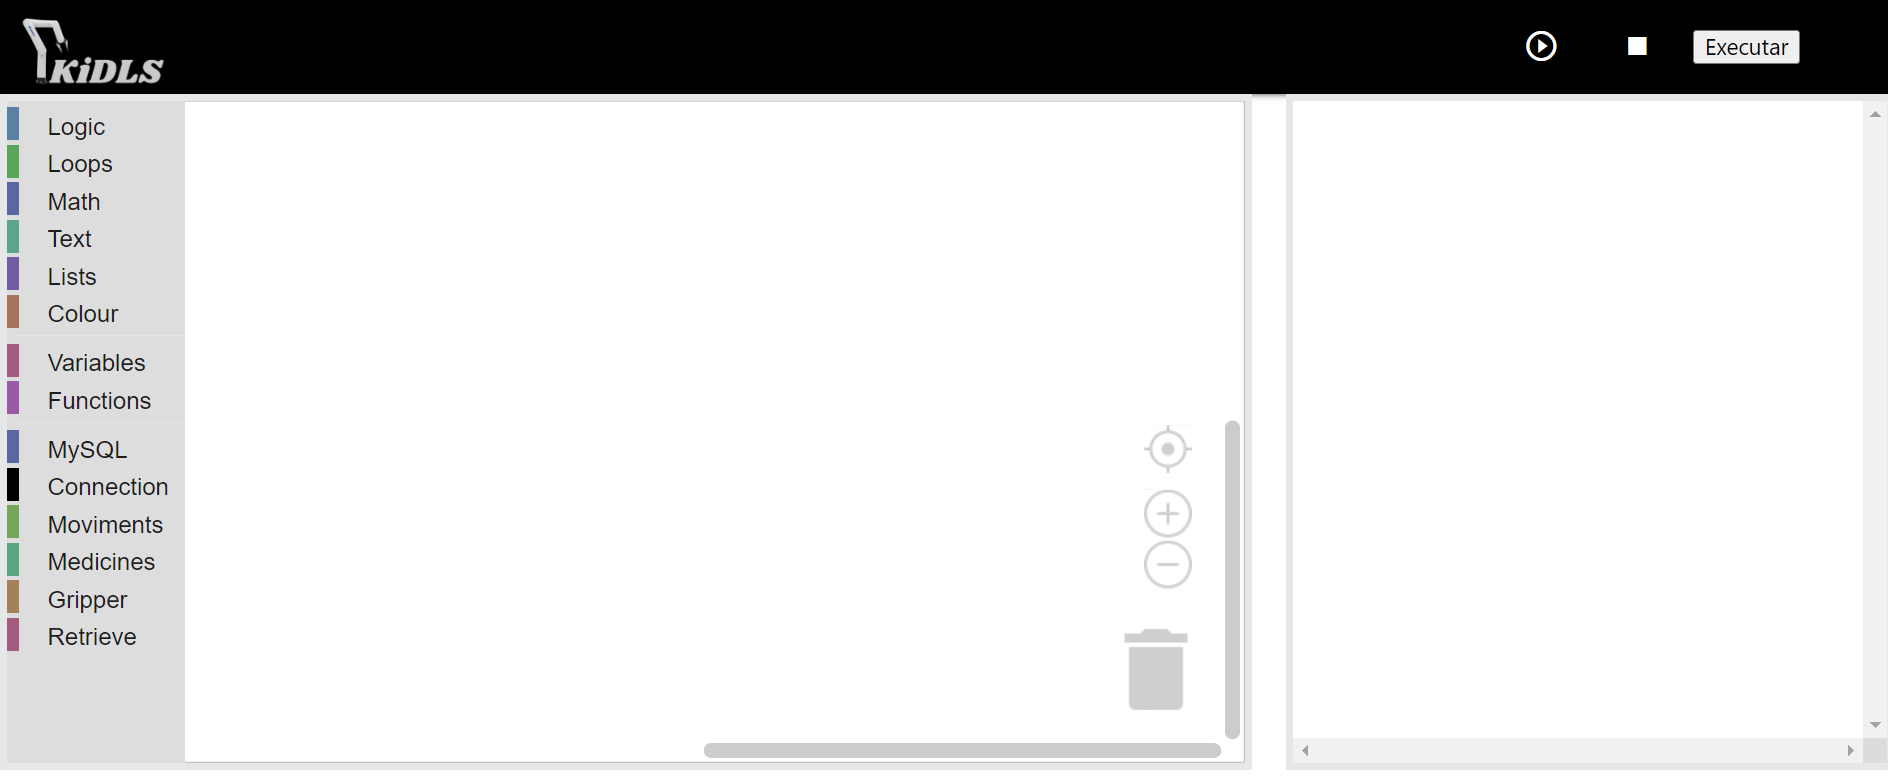
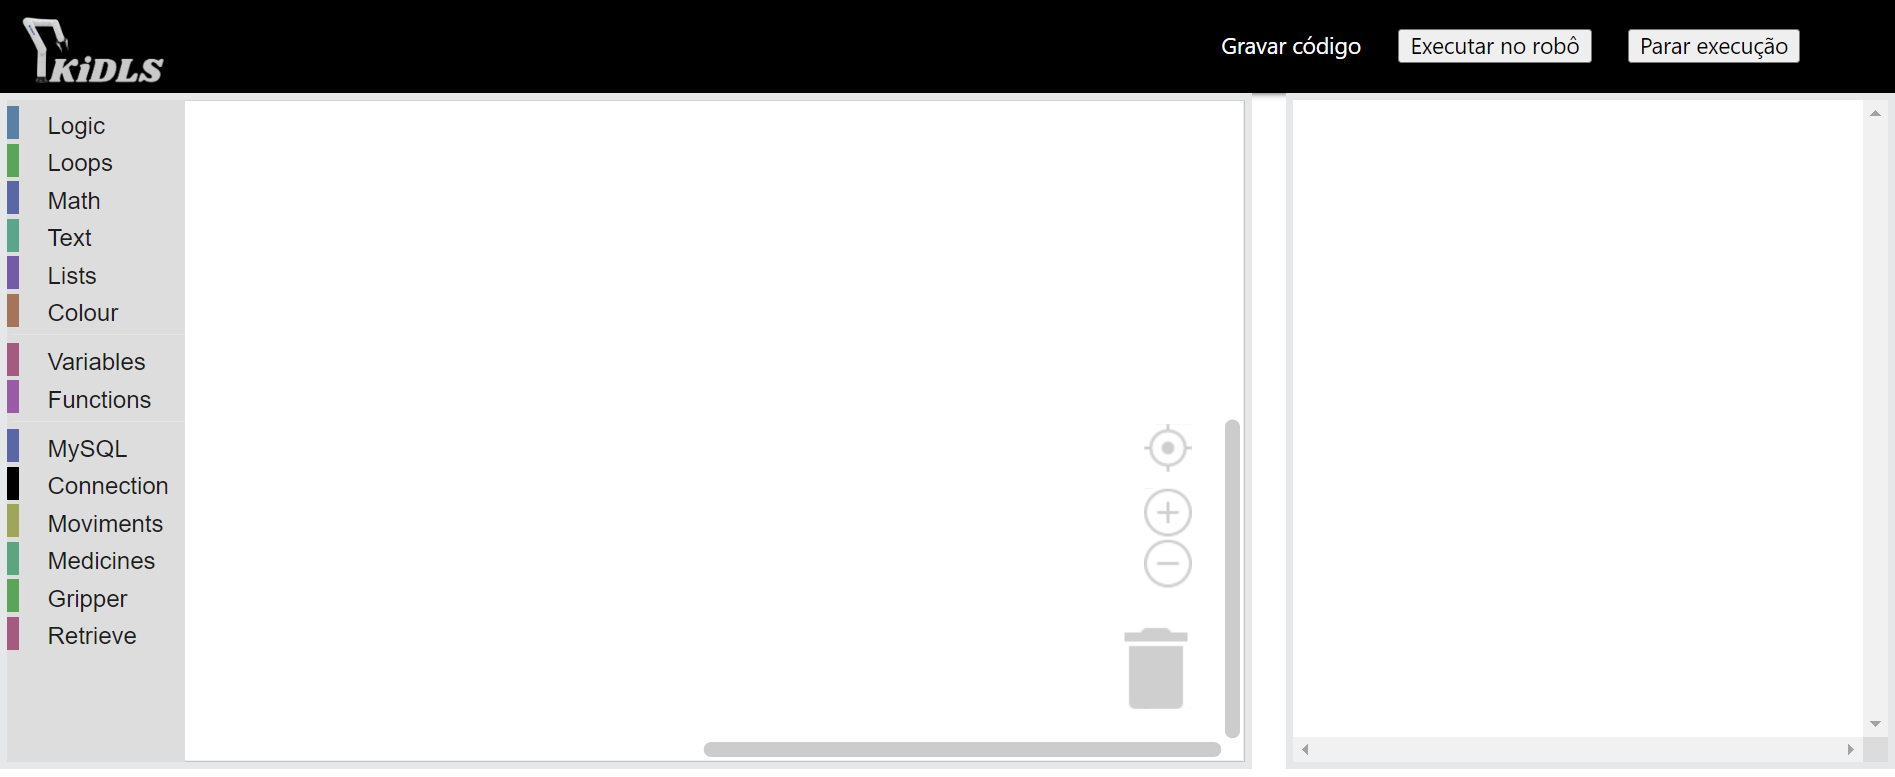
Update in the function index.html

diff --git a/templates/index.html b/templates/index.html
@@ -58,9 +58,12 @@
               <!-- <img alt="logo" src="static/img/KiDLS__1_-removebg-preview.png" style="width: 100px; height: auto; margin-top: 10px;"> -->
           </a>
           <ul class="right hide-on-med-and-down">      
-            <button onclick="executarScriptPython()">Executar</button>
-            <li class="nav-icons"><a href="#" onclick="runCode()"><i class="material-icons">play_circle_outline</i></a></li>           
-            <li class="nav-icons"><a href="#"><i class="material-icons">stop </i></a></li>          
+            <li class="nav-icons"><a href="#" onclick="runCode()">Gravar código</a></li>
+            <button onclick="executarScriptPython()">Executar no robô</button>            
+            <li class="nav-icons"><a href="#" onclick="pararExecucao()">Parar</a></li>
+
+            <!-- <li class="nav-icons"><a href="#" onclick="runCode()"><i class="material-icons">play_circle_outline</i></a></li>            -->
+            <!-- <li class="nav-icons"><a href="#"><i class="material-icons">stop </i></a></li>           -->
             
           </ul>
       </div>
@@ -760,6 +763,8 @@
             });
         }
 
+      
+
       var mostrar = "nada aqui";
       var toolbox = document.getElementById('toolbox');
 
@@ -851,11 +856,11 @@ workspace.addChangeListener(function(event) {
     </script>
     <!--JavaScript at end of body for optimized loading-->
     <script type="text/javascript" src="static/js/materialize.min.js"></script>
-    <!-- <script type="text/javascript" src="static/js/bootstrap.min.js"></script> -->
-    <!--<script type="text/javascript" src="js/code.js"></script>-->
-    <!-- <script type="text/javascript" src="static/js/FileSaver.js"></script> -->
-    <!-- <script type="text/javascript" src="static/js/prettify.js"></script> -->
-    <!-- <script type="text/javascript" src="static/js/jquery.mousewheel.min.js"></script> -->
+    <script type="text/javascript" src="static/js/bootstrap.min.js"></script> 
+    <script type="text/javascript" src="js/code.js"></script>
+    <script type="text/javascript" src="static/js/FileSaver.js"></script>
+    <script type="text/javascript" src="static/js/prettify.js"></script>
+    <script type="text/javascript" src="static/js/jquery.mousewheel.min.js"></script>
 </body>
 
 </html>

diff --git a/static/src/generated_code.py b/static/src/generated_code.py
@@ -2,19 +2,4 @@ from robot import Robot
 
 obj = Robot()
 
-obj.connect('192.168.2.10')
-if True:
-  obj.move_to_home()
-for count in range(2):
-  obj.move_cartesiann([0, 0, 0, 0, 0, 0])
-  obj.close_tool()
-  obj.move_cartesiann([0, 0, 0, 0, 0, 0])
-  obj.move_cartesiann([0, 0, 0, 0, 0, 0])
-  obj.open_tool(0.60)
-obj.move_cartesiann([0, 0, 0, 0, 0, 0])
-obj.close_tool()
-obj.move_cartesiann([0, 0, 0, 0, 0, 0])
-obj.move_cartesiann([0, 0, 0, 0, 0, 0])
-obj.open_tool(0.60)
 obj.move_to_home()
-obj.disconnect()
